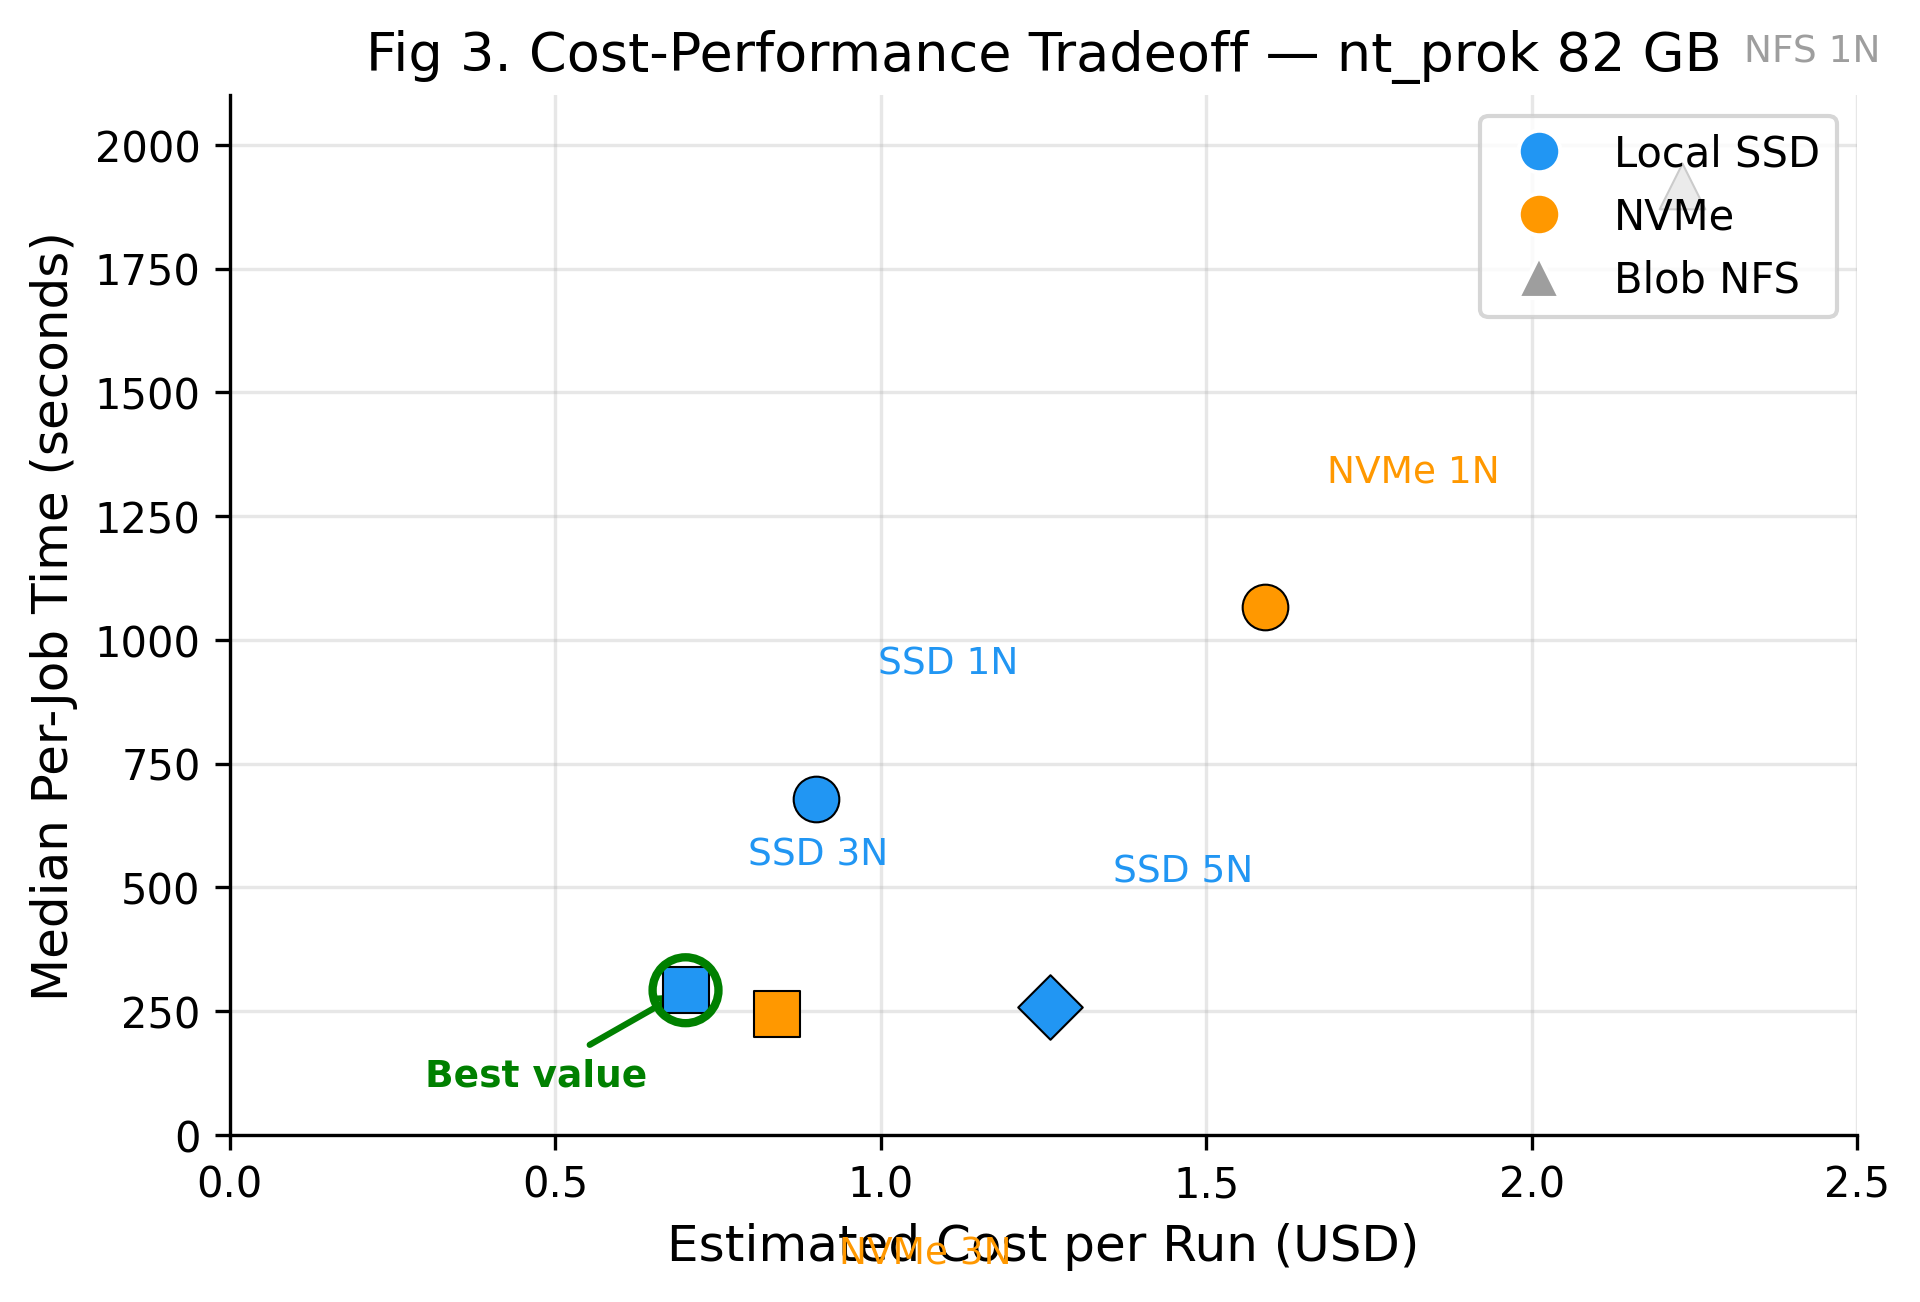
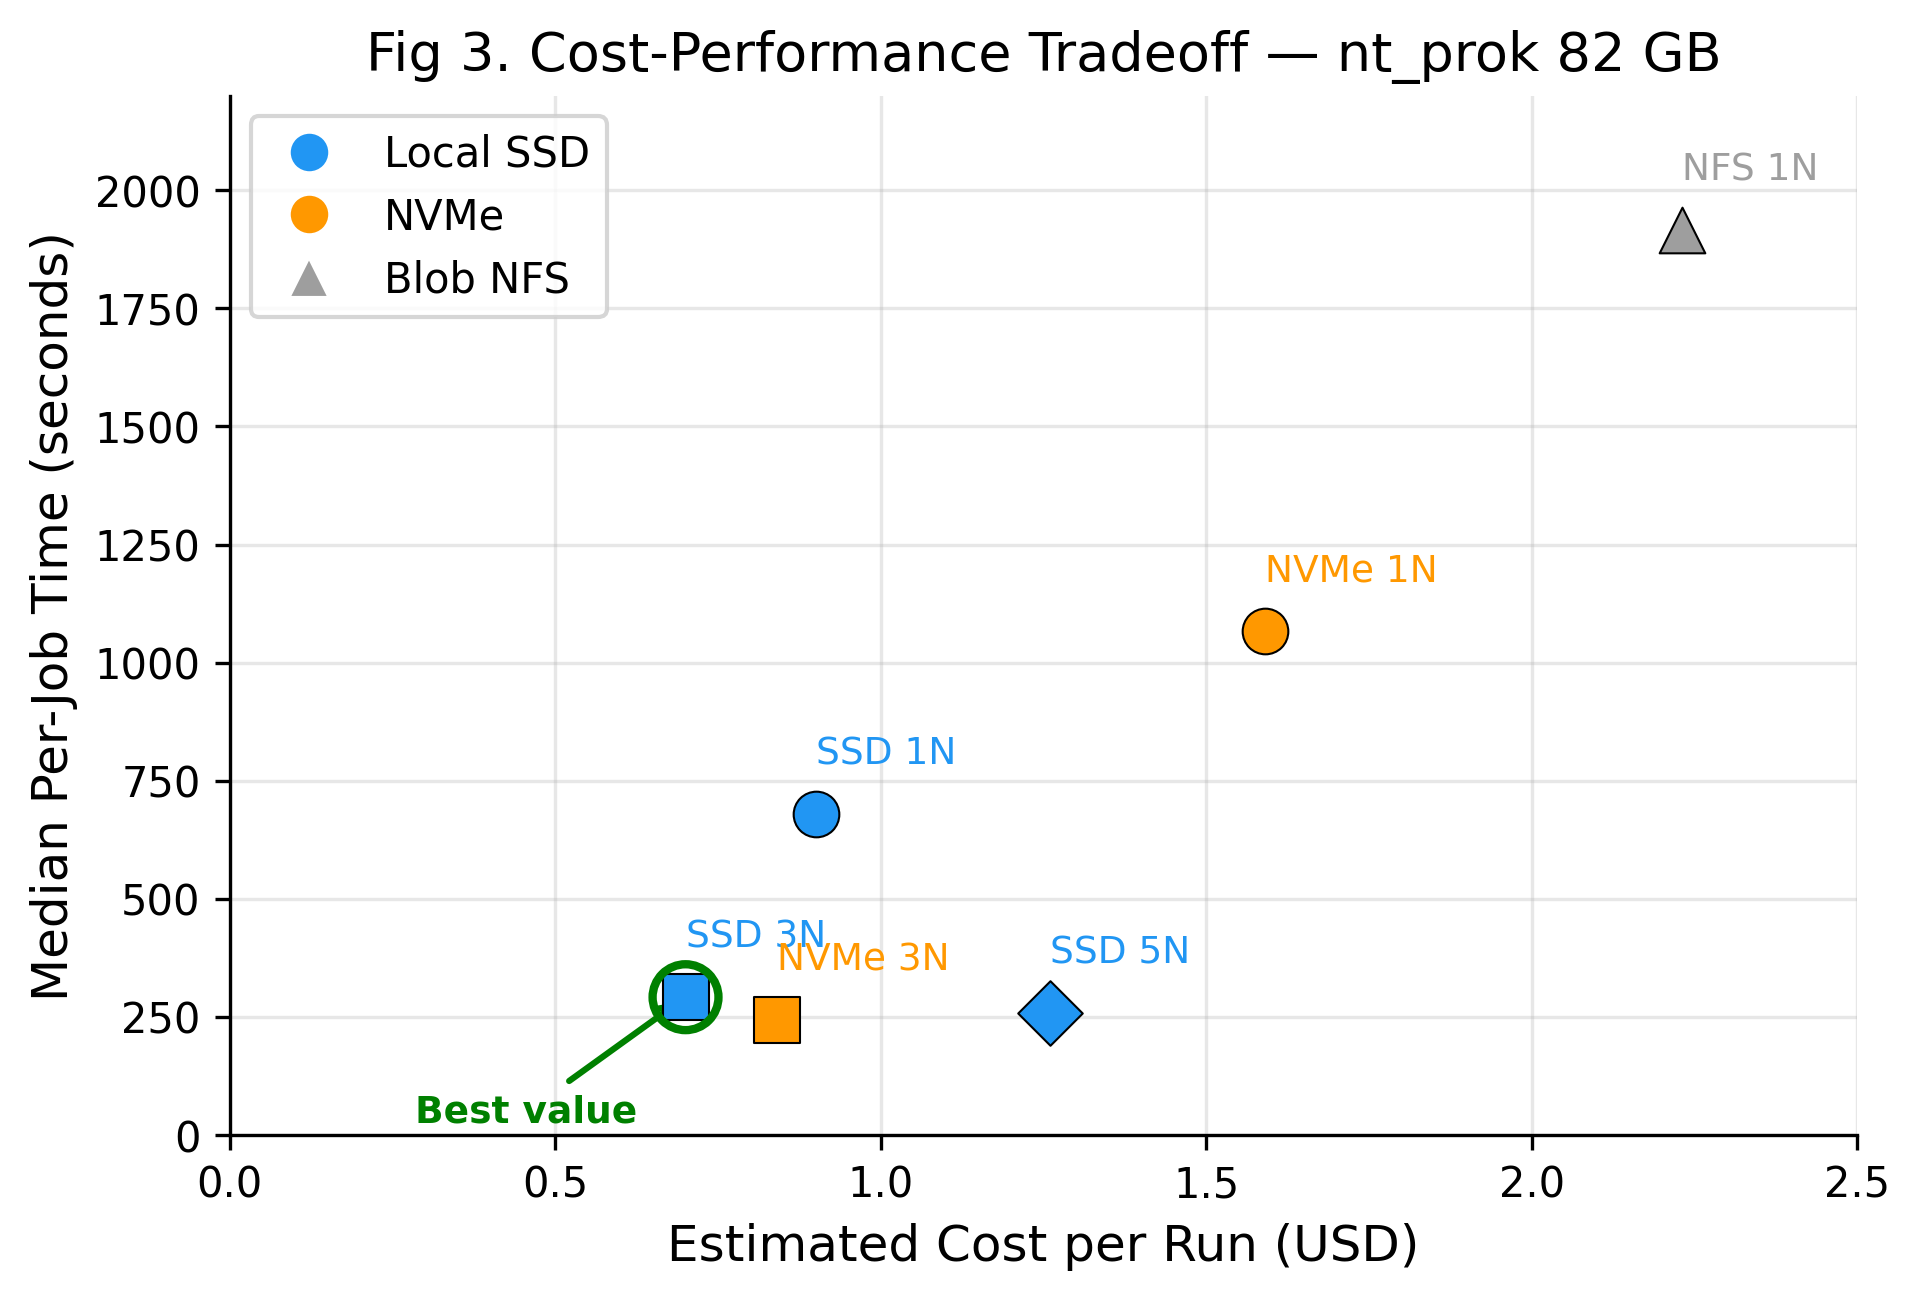
fix: update chart annotations and improve layout for cost-performance figure

diff --git a/benchmark/results/2026-04-18/create_charts_v2.py b/benchmark/results/2026-04-18/create_charts_v2.py
@@ -108,16 +108,26 @@ perfs = [679, 292, 259, 1066, 244, 1916]
 colors_scatter = [C_SSD, C_SSD, C_SSD, C_NVME, C_NVME, C_NFS]
 markers = ['o', 's', 'D', 'o', 's', '^']
 
+# Per-point label offsets: (x_offset_pts, y_offset_pts) — all above, left-aligned at marker center
+label_offsets = {
+    'SSD 1N':  (0, 12),
+    'SSD 3N':  (0, 12),
+    'SSD 5N':  (0, 12),
+    'NVMe 1N': (0, 12),
+    'NVMe 3N': (0, 12),
+    'NFS 1N':  (0, 12),
+}
+
 for i, (c, p, col, m, label) in enumerate(zip(costs, perfs, colors_scatter, markers, configs)):
     ax.scatter(c, p, c=col, marker=m, s=120, zorder=5, edgecolors='black', linewidth=0.5)
-    offset_x = 0.05 if i != 1 else -0.15
-    offset_y = 30 if i != 4 else -60
-    ax.annotate(label, (c, p), textcoords="offset points", xytext=(15, offset_y),
-                fontsize=9, color=col)
+    ox, oy = label_offsets[label]
+    ax.annotate(label, (c, p), textcoords="offset points", xytext=(ox, oy),
+                fontsize=9, color=col, ha='left')
 
 # Highlight best
 ax.scatter([0.70], [292], c='none', s=250, edgecolors='green', linewidth=2, zorder=6)
-ax.annotate('Best value', xy=(0.70, 292), xytext=(0.3, 100),
+ax.annotate('Best value', xy=(0.70, 292), xytext=(-65, -30),
+            textcoords="offset points",
             fontsize=9, color='green', fontweight='bold',
             arrowprops=dict(arrowstyle='->', color='green', lw=1.5))
 
@@ -125,7 +135,7 @@ ax.set_xlabel('Estimated Cost per Run (USD)')
 ax.set_ylabel('Median Per-Job Time (seconds)')
 ax.set_title('Fig 3. Cost-Performance Tradeoff — nt_prok 82 GB')
 ax.set_xlim(0, 2.5)
-ax.set_ylim(0, 2100)
+ax.set_ylim(0, 2200)
 
 # Legend
 from matplotlib.lines import Line2D
@@ -134,7 +144,7 @@ legend_elements = [
     Line2D([0], [0], marker='o', color='w', markerfacecolor=C_NVME, markersize=10, label='NVMe'),
     Line2D([0], [0], marker='^', color='w', markerfacecolor=C_NFS, markersize=10, label='Blob NFS'),
 ]
-ax.legend(handles=legend_elements, loc='upper right')
+ax.legend(handles=legend_elements, loc='upper left')
 save(fig, 'fig3-cost-performance')
 
 
